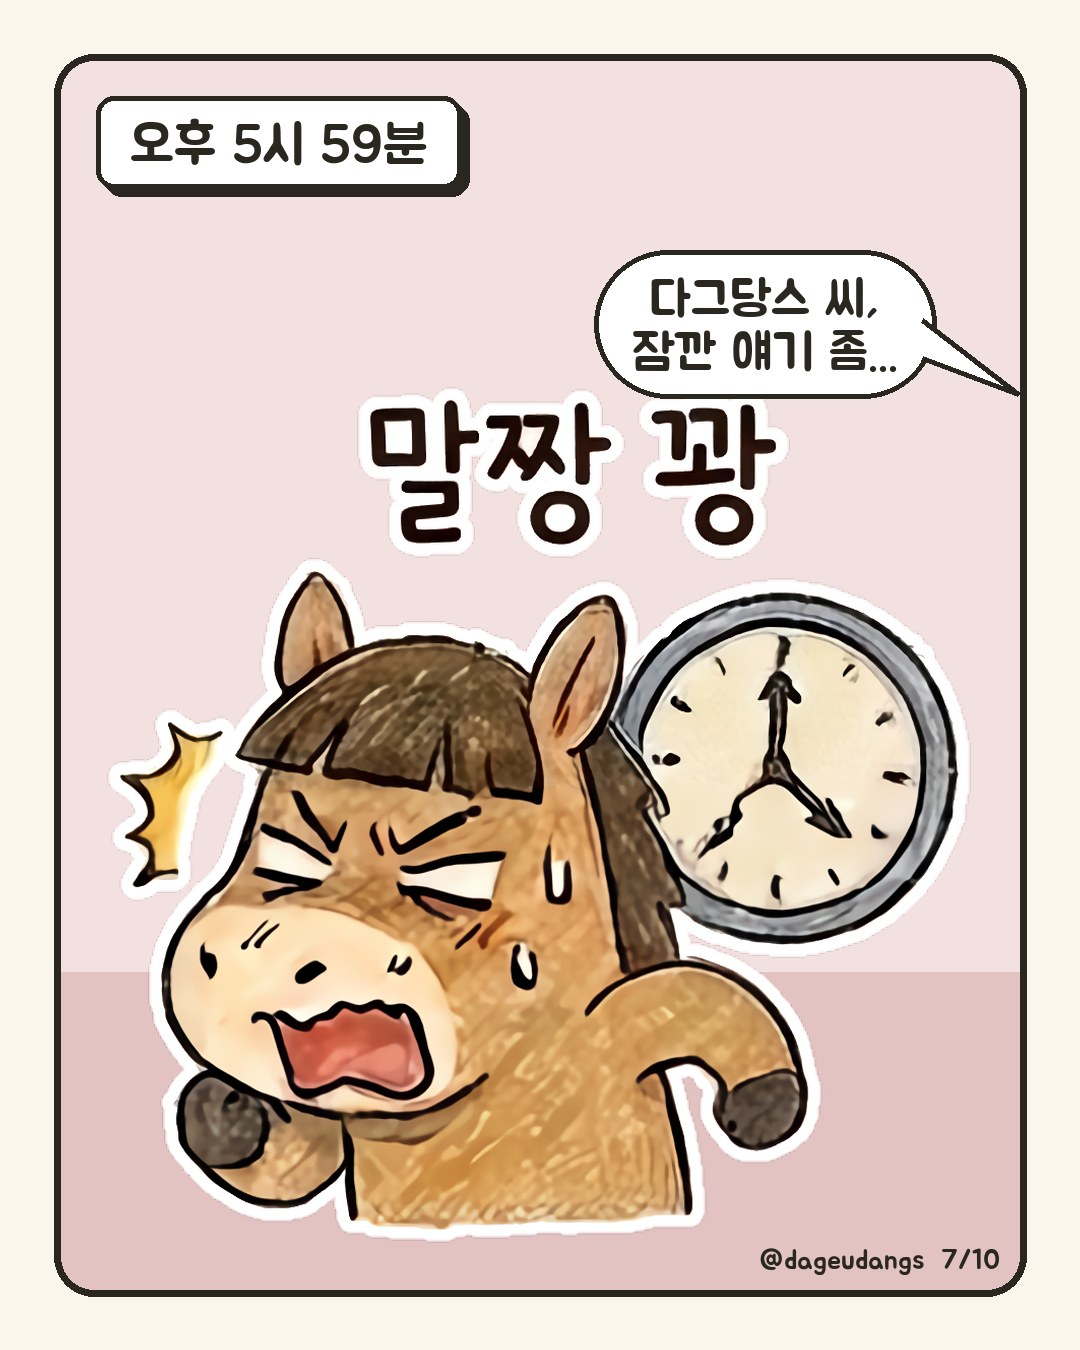
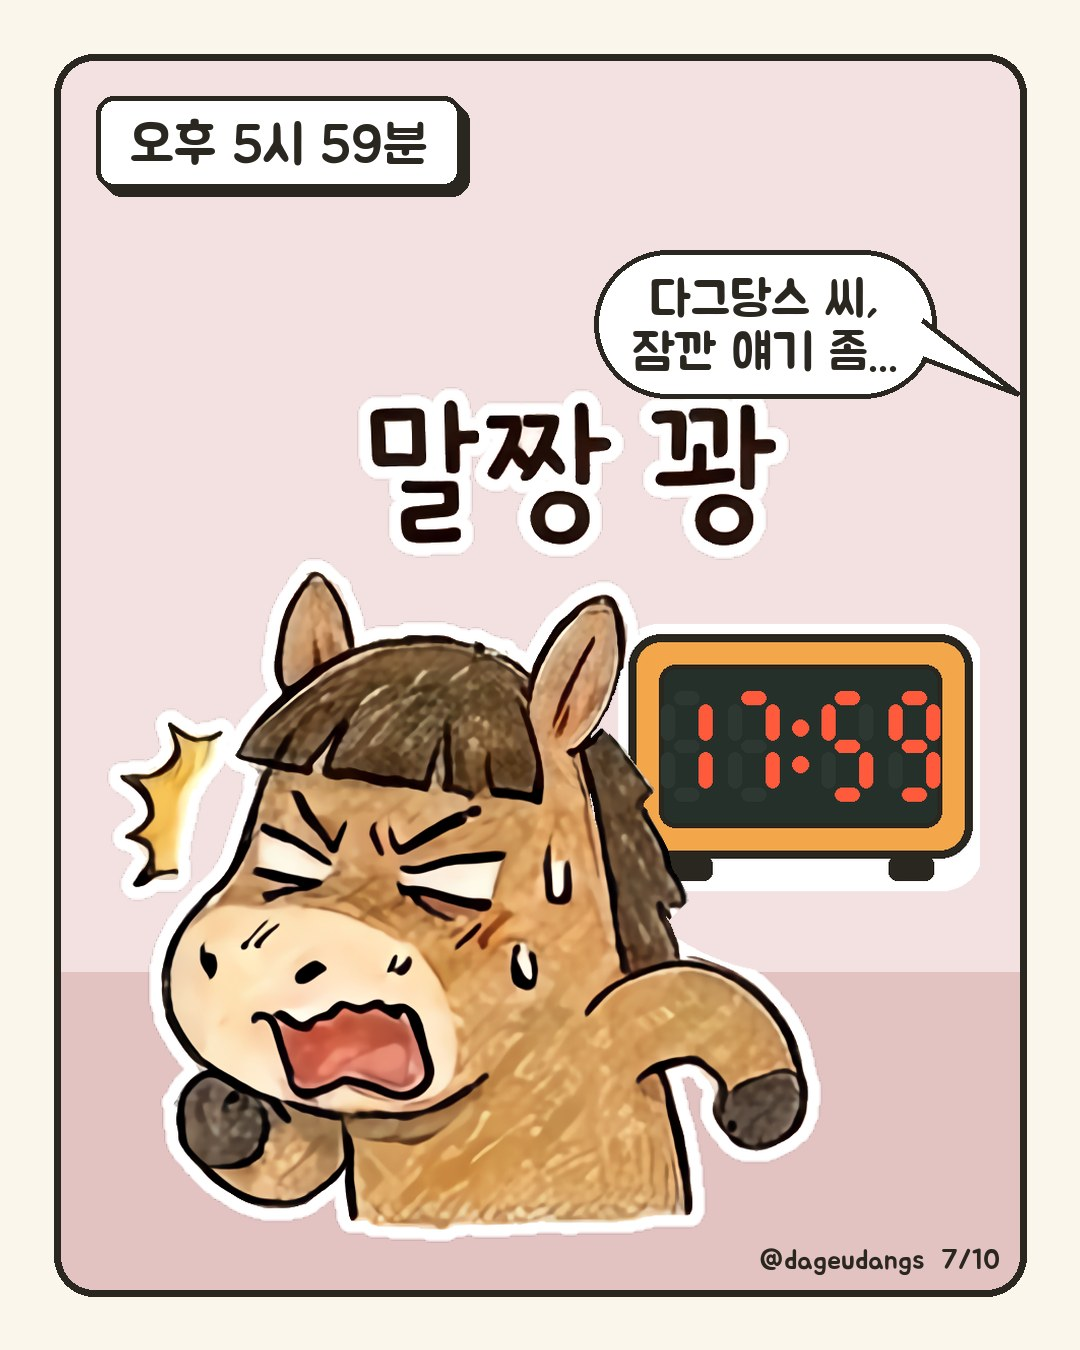
dageudangs: 1화 7컷 시계를 17:59 디지털 시계로 — 원래 아날로그 시계는 5시 59분이 아니었다
- _src/dageudangs/clock.py 가 2-15 그림에서 시계만 지우고 디지털 시계를 말 뒤에 깐다(art/2-15d.png).
- 컷 JPEG 는 7일 캐시라 episodes.json 의 rev 를 ?v= 로 붙여 다시 구운 화가 바로 보이게 했다.

Claude-Session: https://claude.ai/code/session_014fe73GaeF1cC5tv4sJXucQ

Changed region(s): [[0.55, 0.4044, 0.9167, 0.7156]]

diff --git a/dageudangs/index.html b/dageudangs/index.html
@@ -89,7 +89,8 @@
   const app = document.getElementById("app");
   let data = null;
   const esc = (s) => String(s).replace(/[&<>"]/g, (c) => ({ "&": "&amp;", "<": "&lt;", ">": "&gt;", '"': "&quot;" })[c]);
-  const src = (ep, i) => `${ep.id}/${String(i + 1).padStart(2, "0")}.jpg`;
+  // 컷 JPEG 는 7일 캐시라, 다시 구우면 episodes.json 의 rev 를 올려 주소를 바꾼다
+  const src = (ep, i) => `${ep.id}/${String(i + 1).padStart(2, "0")}.jpg${ep.rev ? `?v=${ep.rev}` : ""}`;
   const MULTI = '<svg class="multi" viewBox="0 0 24 24"><path d="M5 3h12a2 2 0 0 1 2 2v12h-2V5H5z"/><rect x="2" y="7" width="13" height="15" rx="2"/></svg>';
 
   const avatar = (cls) => `<div class="${cls}"><img src="avatar.jpg" alt=""></div>`;

diff --git a/_src/dageudangs/clock.py b/_src/dageudangs/clock.py
@@ -1,0 +1,60 @@
+# art/2-15.png 의 아날로그 시계(5시 59분이 아님)를 지우고 17:59 디지털 시계를 말 뒤에 깐다 → art/2-15d.png
+# usage: python3 _src/dageudangs/clock.py   (Pillow·numpy·scipy 필요)
+from pathlib import Path
+
+import numpy as np
+from PIL import Image, ImageDraw
+from scipy import ndimage as nd
+
+ART = Path(__file__).resolve().parent / "art"
+a = np.asarray(Image.open(ART / "2-15.png").convert("RGBA")).astype(int)
+H, W = a.shape[:2]
+yy, xx = np.mgrid[:H, :W]
+r, g, b, al = a[..., 0], a[..., 1], a[..., 2], a[..., 3]
+
+# 시계 원(흰 외곽선 포함) 안에서 말(갈색 덩어리 + 그 외곽선)만 남기고 지운다
+circle = (xx - 680) ** 2 + (yy - 383) ** 2 <= 200 ** 2
+brown = (r - b > 30) & (np.maximum(np.maximum(r, g), b) < 215) & (al > 128)
+lab, n = nd.label(brown)
+sizes = nd.sum(brown, lab, range(1, n + 1))
+horse = nd.binary_dilation(np.isin(lab, 1 + np.nonzero(sizes > 3000)[0]), iterations=7)
+out = a.copy()
+out[circle & ~horse, 3] = 0
+art = Image.fromarray(out.astype(np.uint8), "RGBA")
+
+clk = Image.new("RGBA", (W, H), (0, 0, 0, 0))
+d = ImageDraw.Draw(clk)
+x0, y0, x1, y1 = 520, 250, 858, 470
+d.rounded_rectangle((x0 - 10, y0 - 10, x1 + 10, y1 + 32), 40, fill="white")
+d.rounded_rectangle((x0, y0, x1, y1), 32, fill="#f4a64a", outline="#2a2620", width=8)
+sx0, sy0, sx1, sy1 = x0 + 30, y0 + 30, x1 - 30, y1 - 30
+d.rounded_rectangle((sx0, sy0, sx1, sy1), 16, fill="#26302b", outline="#2a2620", width=5)
+for fx in (x0 + 60, x1 - 60):
+    d.rounded_rectangle((fx - 22, y1 - 2, fx + 22, y1 + 22), 8, fill="#2a2620")
+
+ON, OFF = "#ff5a3c", "#2d3832"
+SEG = {"1": "bc", "5": "afgcd", "7": "abc", "9": "abcdfg"}
+
+
+def digit(ch, x, y, w, h, t):
+    segs = {"a": (x + t, y, x + w - t, y + t), "g": (x + t, y + h // 2 - t // 2, x + w - t, y + h // 2 + t // 2),
+            "d": (x + t, y + h - t, x + w - t, y + h),
+            "f": (x, y + t, x + t, y + h // 2 - t // 2), "b": (x + w - t, y + t, x + w, y + h // 2 - t // 2),
+            "e": (x, y + h // 2 + t // 2, x + t, y + h - t), "c": (x + w - t, y + h // 2 + t // 2, x + w, y + h - t)}
+    for k, box in segs.items():
+        d.rounded_rectangle(box, t // 2, fill=ON if k in SEG[ch] else OFF)
+
+
+dw, dh, t, gap, colon = 50, 108, 13, 16, 26
+x = (sx0 + sx1) // 2 - (4 * dw + 3 * gap + colon) // 2
+y = (sy0 + sy1) // 2 - dh // 2
+for i, ch in enumerate("1759"):
+    digit(ch, x, y, dw, dh, t)
+    x += dw + gap
+    if i == 1:
+        cx = x + colon // 2 - gap // 2
+        for cy in (y + dh // 3, y + 2 * dh // 3):
+            d.ellipse((cx - 8, cy - 8, cx + 8, cy + 8), fill=ON)
+        x += colon
+clk.alpha_composite(art)
+clk.save(ART / "2-15d.png")

diff --git a/dageudangs/README.md b/dageudangs/README.md
@@ -12,7 +12,8 @@
 
 1. `episodes.json` 에 화를 추가한다(`art` 는 `_src/dageudangs/art/<팩번호>-<컷번호>.png`).
 2. `python3 _src/dageudangs/render.py ep02` (Pillow 필요) → `dageudangs/ep02/` 생성.
-3. 결과 JPEG 를 직접 열어 보고 커밋한다.
+3. 결과 JPEG 를 직접 열어 보고 커밋한다. 이미 올린 화를 다시 구웠으면 그 화의 `rev` 를 1 올린다
+   (컷 JPEG 는 7일 캐시라 주소가 같으면 옛 그림이 보인다).
 
 글자는 전부 렌더러가 Jua 폰트로 넣는다 — 그림 생성기가 쓴 글자는 맞춤법이 깨진다.
 Jua 에는 `…` 글리프가 없어 □ 로 나오므로 `...` 를 쓴다.

diff --git a/_src/dageudangs/README.md b/_src/dageudangs/README.md
@@ -5,3 +5,5 @@
 - `art/` — 컷 그림. `_assets/sticker/dageudangseu-N/NN.png` 를 waifu2x(cunet, `-n 0 -s 2`)로
   2배 키운 것이고 이름은 `<팩>-<번호>.png`. 새 그림이 필요하면 같은 방식으로 추가한다.
 - `fonts/Jua-Regular.ttf` — SIL OFL 1.1 (`fonts/OFL.txt`).
+- `art/2-15d.png` — 2-15 의 아날로그 시계(5시 59분이 아니었다)를 17:59 디지털 시계로 바꾼 것.
+  `clock.py` 로 다시 만든다(numpy·scipy 필요).
